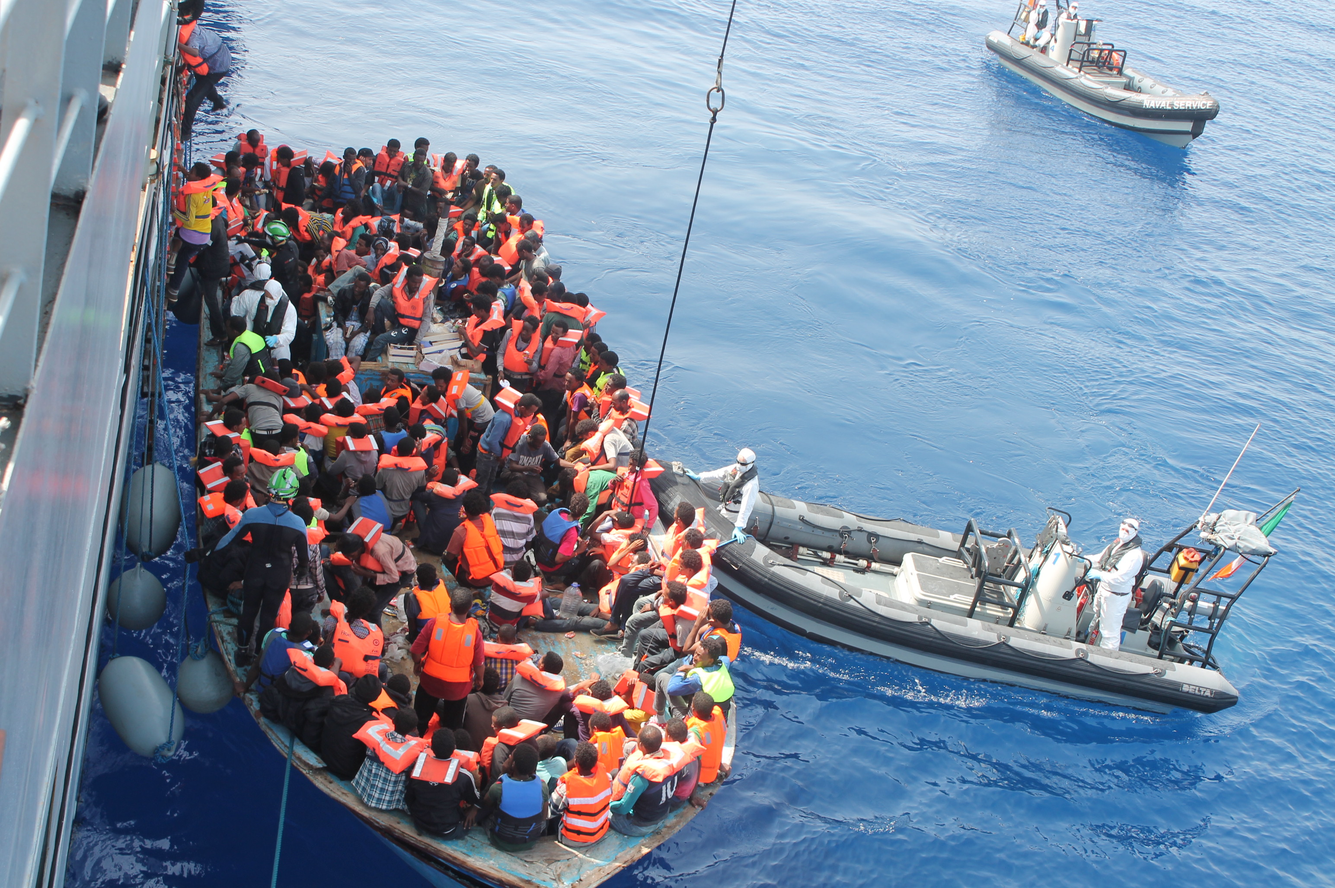
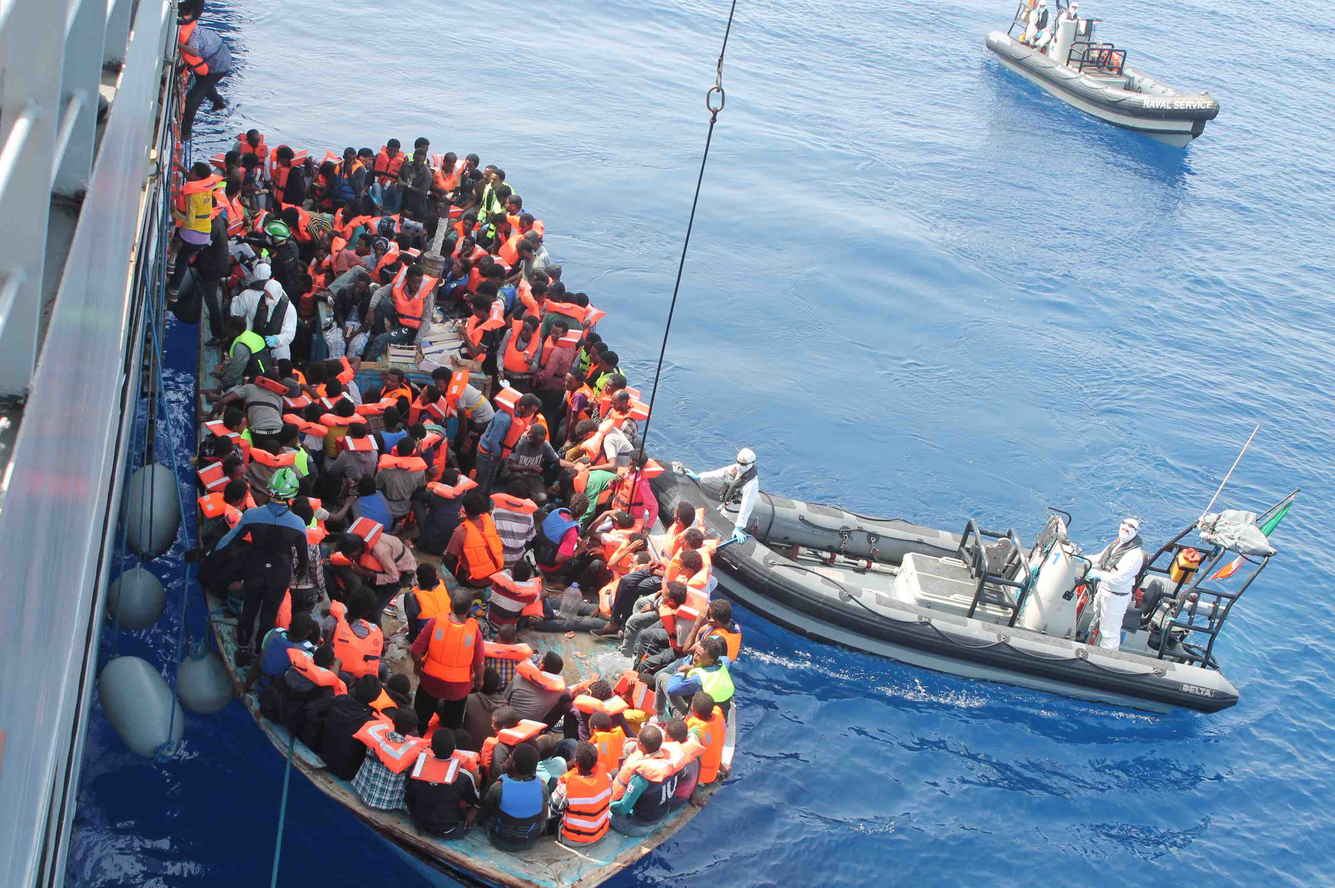
Reduce app size for faster cf push, faster app loading time.
Added .git/ and public/img/unused/ to .cfignore, significantly reducing
our app size on bluemix.  App package is now 1.4 MB (was 29MB
previously), droplet size now 49MB (was 76MB previously).

Image sizes were reduced as well, which makes loading the web site
faster, particularly from a handy.  Total image sizes are still > 1MB,
it would be great to reduce the image sizes more eventually.

Upgraded package.json to use node 0.12.7 - this generally has fewer
issues than 0.10.28.

diff --git a/config/env/cloud-foundry.js b/config/env/cloud-foundry.js
@@ -19,6 +19,11 @@ module.exports = {
       pass: ''
     }
   },
+//  translation: {
+//    uri: getCred('watson-translation', 'uri'),
+//    apiKey : getCred('watson-translation', 'apiKey'),
+//    password : 
+//  },
   log: {
     // Can specify one of 'combined', 'common', 'dev', 'short', 'tiny'
     format: 'combined',
